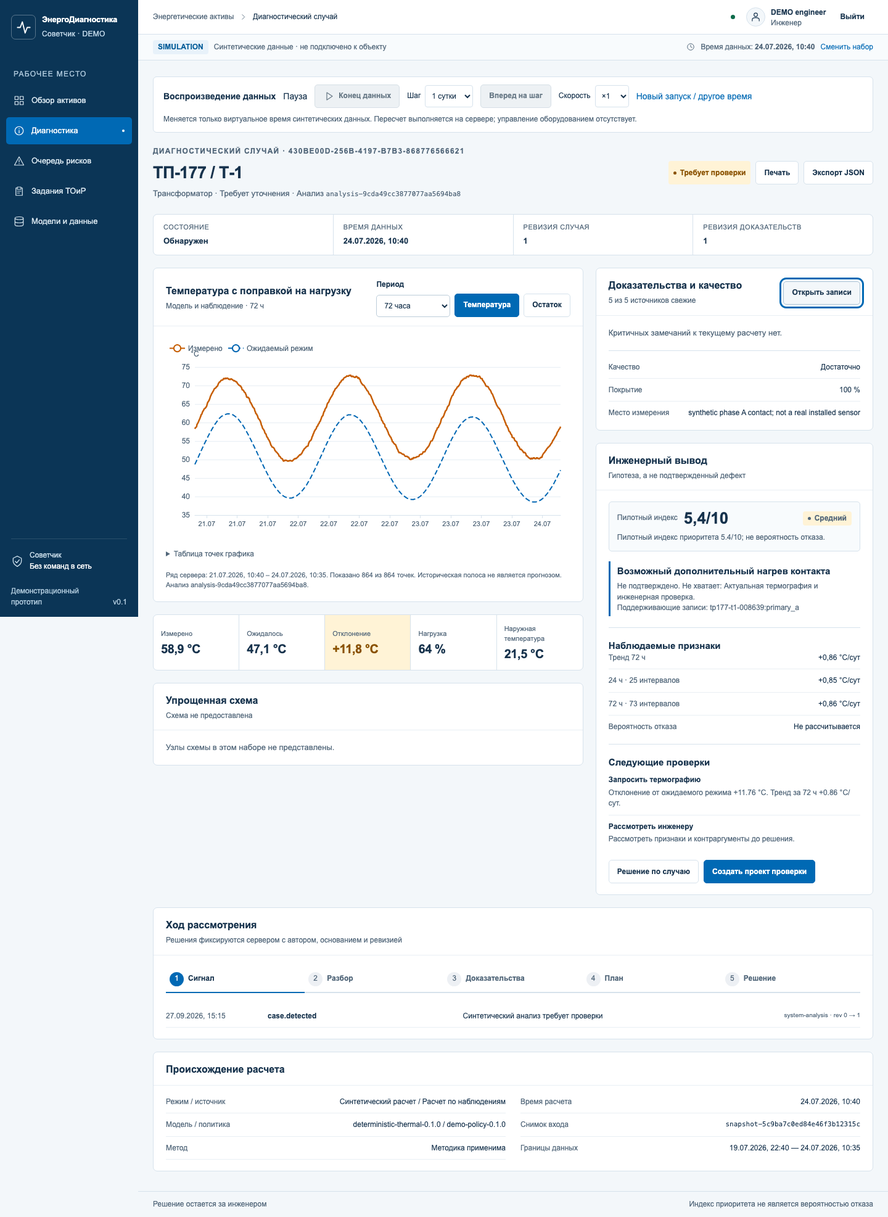
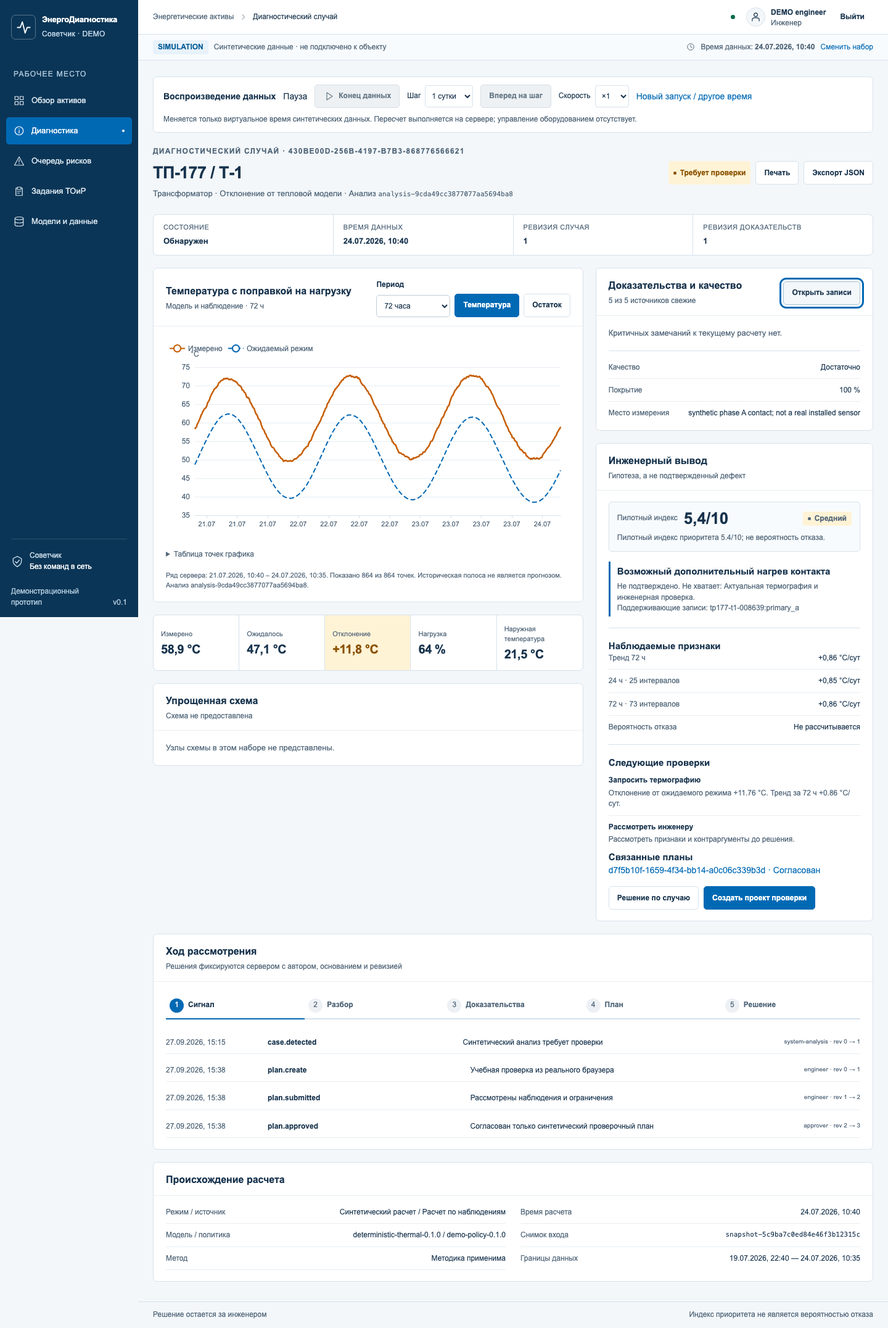
Polish presenter flow, offline navigation and local run instructions

diff --git a/apps/web/src/features/support.tsx b/apps/web/src/features/support.tsx
@@ -1,12 +1,12 @@
 import { api } from '../api/client';
 import { Badge, Banner, Card, DataTable, Empty, ErrorState, Loading, PageHeading } from '../design-system/components';
-import { assetTypeLabel, date, expectData, fetchRiskQueue, href, percent, useResource } from './shared';
+import { assetTypeLabel, locationLabel, date, expectData, fetchRiskQueue, href, percent, useResource } from './shared';
 
 export function AssetsPage({ run }: { run: string }) {
   const assets = useResource(`assets-${run}`, async () => expectData(await api.GET('/api/v1/assets', { params: { query: { scenarioRunId: run, limit: 100, offset: 0 } } })));
   return <div className="feature-stack"><PageHeading eyebrow="Реестр" title="Обзор активов" subtitle="Оборудование и места измерения в выбранном запуске." />
     {assets.loading && !assets.data && <Loading />}{assets.error && !assets.data && <ErrorState message={assets.error.message} retry={assets.refresh} />}{assets.stale && <Banner tone="high" title="Сохраненный реестр">Проверьте обновления после восстановления связи.</Banner>}
-    {assets.data && <Card title={`${assets.data.data.total} активов`} subtitle={`Время данных: ${date(assets.data.dataTime)}`}><DataTable label="Реестр активов"><thead><tr><th>Актив</th><th>Тип</th><th>Площадка</th><th>Место измерения</th></tr></thead><tbody>{assets.data.data.items.map(asset => <tr key={asset.assetId}><td><a href={href(`/assets/${encodeURIComponent(asset.assetId)}`, run)}><strong>{asset.name}</strong></a></td><td>{assetTypeLabel[asset.assetType]}</td><td>{asset.siteId}</td><td>{asset.measurementLocation}</td></tr>)}</tbody></DataTable>{assets.data.data.items.length === 0 && <Empty title="Активов нет">Проверьте выбранный набор данных.</Empty>}</Card>}
+    {assets.data && <Card title={`${assets.data.data.total} активов`} subtitle={`Время данных: ${date(assets.data.dataTime)}`}><DataTable label="Реестр активов"><thead><tr><th>Актив</th><th>Тип</th><th>Площадка</th><th>Место измерения</th></tr></thead><tbody>{assets.data.data.items.map(asset => <tr key={asset.assetId}><td><a href={href(`/assets/${encodeURIComponent(asset.assetId)}`, run)}><strong>{asset.name}</strong></a></td><td>{assetTypeLabel[asset.assetType]}</td><td>{asset.siteId}</td><td>{locationLabel(asset.measurementLocation)}</td></tr>)}</tbody></DataTable>{assets.data.data.items.length === 0 && <Empty title="Активов нет">Проверьте выбранный набор данных.</Empty>}</Card>}
   </div>;
 }
 
@@ -21,7 +21,7 @@ export function AssetPage({ id, run }: { id: string; run: string }) {
   const entry = risks.data?.data.items.find(value => value.asset.assetId === id);
   return <div className="feature-stack"><PageHeading eyebrow="Актив" title={item.name} subtitle={`${assetTypeLabel[item.assetType]} · ${item.siteId}`} actions={entry?.caseId ? <a className="button button-primary" href={href(`/diagnostics/cases/${encodeURIComponent(entry.caseId)}`, run)}>Открыть случай</a> : undefined} />
     {(asset.stale || sources.stale || risks.stale) && <Banner tone="high" title="Показаны сохраненные данные">Состояние источников и анализа могло измениться.</Banner>}
-    <div className="feature-support-grid"><Card title="Паспортная запись"><dl className="feature-definition"><div><dt>Идентификатор</dt><dd className="feature-mono">{item.assetId}</dd></div><div><dt>Место измерения</dt><dd>{item.measurementLocation}</dd></div><div><dt>Площадка</dt><dd>{item.siteId}</dd></div><div><dt>Условный вес последствий</dt><dd>{percent(item.demoConsequenceWeight)}</dd></div></dl></Card><Card title="Текущий анализ" subtitle={entry ? `Анализ ${entry.analysis.analysisRunId}` : 'Данные анализа не получены'}>{entry ? <><Badge tone={entry.analysis.risk.priority}>{entry.analysis.risk.priority === 'unknown' ? 'Оценка неизвестна' : `Индекс ${entry.analysis.risk.score}/10`}</Badge><p className="feature-muted">Время данных: {date(entry.analysis.asOf)}. {entry.analysis.risk.label}</p>{entry.caseId && <a href={href(`/diagnostics/cases/${encodeURIComponent(entry.caseId)}`, run)}>Перейти к случаю →</a>}</> : <p className="feature-muted">Откройте очередь рисков для текущих наблюдений. Анализ по этому активу пока не доступен.</p>}</Card></div>
+    <div className="feature-support-grid"><Card title="Паспортная запись"><dl className="feature-definition"><div><dt>Идентификатор</dt><dd className="feature-mono">{item.assetId}</dd></div><div><dt>Место измерения</dt><dd>{locationLabel(item.measurementLocation)}</dd></div><div><dt>Площадка</dt><dd>{item.siteId}</dd></div><div><dt>Условный вес последствий</dt><dd>{percent(item.demoConsequenceWeight)}</dd></div></dl></Card><Card title="Текущий анализ" subtitle={entry ? `Анализ ${entry.analysis.analysisRunId}` : 'Данные анализа не получены'}>{entry ? <><Badge tone={entry.analysis.risk.priority}>{entry.analysis.risk.priority === 'unknown' ? 'Оценка неизвестна' : `Индекс ${entry.analysis.risk.score}/10`}</Badge><p className="feature-muted">Время данных: {date(entry.analysis.asOf)}. {entry.analysis.risk.label}</p>{entry.caseId && <a href={href(`/diagnostics/cases/${encodeURIComponent(entry.caseId)}`, run)}>Перейти к случаю →</a>}</> : <p className="feature-muted">Откройте очередь рисков для текущих наблюдений. Анализ по этому активу пока не доступен.</p>}</Card></div>
     <Card title="Источники" subtitle="Канал, физическое место, единица и допустимая давность">{sources.loading && !sources.data && <Loading />}{sources.error && !sources.data && <ErrorState message={sources.error.message} retry={sources.refresh} />}{sources.data && <DataTable label="Источники актива"><thead><tr><th>Канал</th><th>Место</th><th>Показатель / единица</th><th>Частота / давность</th></tr></thead><tbody>{sources.data.data.items.filter(source => source.assetId === id).map(source => <tr key={source.sourceId}><td><strong>{source.channel}</strong><span className="secondary-line feature-mono">{source.sourceId}</span></td><td>{source.location}</td><td>{source.metric} / {source.unit}</td><td>{source.frequencySeconds === null ? 'Событийный' : `${source.frequencySeconds} с`} / {source.maxAgeSeconds} с</td></tr>)}</tbody></DataTable>}{sources.data && !sources.data.data.items.some(source => source.assetId === id) && <Empty title="Источники не указаны">Проверить качество данных пока нельзя.</Empty>}</Card>
   </div>;
 }

diff --git a/apps/web/src/features/DiagnosticsApp.tsx b/apps/web/src/features/DiagnosticsApp.tsx
@@ -93,14 +93,39 @@ function ScenarioPicker({ identity }: { identity: S['Identity'] }) {
 }
 
 export function DiagnosticsApp() {
-  const url = new URL(window.location.href);
+  const [location, setLocation] = useState(window.location.href);
+  const [online, setOnline] = useState(navigator.onLine);
+  const url = new URL(location);
   const run = url.searchParams.get('run') || (url.searchParams.has('choose') ? '' : localStorage.getItem('diagnostics-run') || '');
   const identity = useResource('auth-me', async () => expectData(await api.GET('/api/v1/auth/me')), false);
   const session = useResource(`session-${run}`, async () => {
     if (!run) throw new ApiFailure(404, 'Запуск не выбран.');
     return expectData(await api.GET('/api/v1/demo/sessions/{id}', { params: { path: { id: run } } }));
   });
-  const current = route(window.location.pathname);
+  useEffect(() => {
+    const updateLocation = () => setLocation(window.location.href);
+    const navigate = (event: MouseEvent) => {
+      if (event.defaultPrevented || event.button !== 0 || event.ctrlKey || event.metaKey || event.shiftKey || event.altKey) return;
+      const link = event.target instanceof Element ? event.target.closest('a') : null;
+      if (!link || link.target || link.hasAttribute('download')) return;
+      const next = new URL(link.href);
+      if (next.origin !== window.location.origin || next.pathname === '/gallery' || (next.hash && next.pathname === window.location.pathname)) return;
+      event.preventDefault();
+      window.history.pushState(null, '', next);
+      updateLocation(); window.scrollTo(0, 0);
+    };
+    document.addEventListener('click', navigate);
+    window.addEventListener('popstate', updateLocation);
+    return () => { document.removeEventListener('click', navigate); window.removeEventListener('popstate', updateLocation); };
+  }, []);
+  useEffect(() => {
+    const connected = () => { setOnline(true); identity.refresh(); session.refresh(); };
+    const disconnected = () => setOnline(false);
+    window.addEventListener('online', connected);
+    window.addEventListener('offline', disconnected);
+    return () => { window.removeEventListener('online', connected); window.removeEventListener('offline', disconnected); };
+  }, [identity.refresh, session.refresh]);
+  const current = route(url.pathname);
   const nav: NavItem[] = featureRegistrations.map(item => ({ id: item.id, href: href(item.route, run), label: item.label, icon: icons[item.id] }));
   const processing = session.data?.data.processingStatus || 'ready';
   const canShowRun = !identity.loading && identity.error?.status !== 401;
@@ -109,24 +134,25 @@ export function DiagnosticsApp() {
     const timer = window.setInterval(session.refresh, 3000);
     return () => window.clearInterval(timer);
   }, [run, processing, session.data?.data.paused, session.refresh]);
-  const connection = identity.error?.status === 0 || session.error?.status === 0 ? 'offline' : identity.loading || session.loading ? 'loading' : 'online';
+  const connection = !online || identity.error?.status === 0 || session.error?.status === 0 ? 'offline' : identity.loading || session.loading ? 'loading' : 'online';
   async function logout() {
     if (!identity.data) return;
     try { expectData(await api.POST('/api/v1/auth/logout', { params: { header: mutationHeaders(identity.data) } })); window.location.reload(); }
     catch { identity.refresh(); }
   }
   return <AppShell nav={nav} active={current.active} mode={session.data?.mode || null} dataTime={session.data?.dataTime || null} connection={connection}
-    userLabel={identity.data?.displayName || 'Нет входа'} roleLabel={identity.data ? roleLabel[identity.data.role] : 'Просмотр'} onLogout={identity.data ? logout : undefined}
+    userLabel={identity.data?.displayName || 'Нет входа'} roleLabel={identity.data ? roleLabel[identity.data.role] : 'Просмотр'} onLogout={identity.data && online ? logout : undefined}
     breadcrumb={current.title} headerActions={run ? <a href="/?choose=1">Сменить набор</a> : undefined}>
+    {!online && <Banner tone="high" title="Нет сети">Показан последний загруженный срез. Изменения недоступны до восстановления связи.</Banner>}
     {identity.loading && !identity.data && <Loading label="Проверяем вход..." />}
     {identity.error?.status === 401 && <Login onSuccess={() => window.location.reload()} />}
     {identity.error && identity.error.status !== 401 && <Banner tone="high" title="Сервер недоступен">Сохраненные данные показаны как устаревшие. Изменения недоступны.</Banner>}
     {!identity.loading && identity.error?.status !== 401 && !run && identity.data && <ScenarioPicker identity={identity.data} />}
     {canShowRun && run && session.loading && !session.data && <Loading label="Загружаем запуск..." />}
     {canShowRun && run && session.error && !session.data && <ErrorState message={session.error.message} requestId={session.error.requestId} retry={session.refresh} />}
-    {canShowRun && run && session.data && <ReplayControls session={session.data.data} identity={session.stale ? null : identity.data} refresh={session.refresh} />}
+    {canShowRun && run && session.data && <ReplayControls session={session.data.data} identity={!online || session.stale ? null : identity.data} refresh={session.refresh} />}
     {canShowRun && run && session.data && processing !== 'ready' && <Banner tone={processing === 'failed' ? 'high' : 'blue'} title={processing === 'failed' ? 'Подготовка набора не удалась' : 'Набор подготавливается'}>{processing === 'failed' ? session.data.data.processingError || 'Проверьте журнал сервера.' : 'Данные еще не готовы для просмотра. Статус обновляется автоматически.'}</Banner>}
     {canShowRun && run && session.data && processing !== 'ready' && <Button onClick={session.refresh}>Проверить состояние</Button>}
-    {canShowRun && run && session.data && processing === 'ready' && <>{session.stale && <Banner tone="high" title="Показаны сохраненные данные">Связь с сервером потеряна; действия заблокированы.</Banner>}<div key={session.data.data.processedAt || session.data.data.virtualTime}>{current.content(run, identity.data && !identity.stale && !session.stale ? identity.data : null)}</div></>}
+    {canShowRun && run && session.data && processing === 'ready' && <>{session.stale && <Banner tone="high" title="Показаны сохраненные данные">Связь с сервером потеряна; действия заблокированы.</Banner>}<div key={session.data.data.processedAt || session.data.data.virtualTime}>{current.content(run, online && identity.data && !identity.stale && !session.stale ? identity.data : null)}</div></>}
   </AppShell>;
 }

diff --git a/apps/web/src/features/case.tsx b/apps/web/src/features/case.tsx
@@ -2,7 +2,7 @@ import { lazy, Suspense, useEffect, useState } from 'react';
 import { api } from '../api/client';
 import type { components } from '../api/generated';
 import { Badge, Banner, Button, Card, Dialog, Empty, ErrorState, Loading, PageHeading } from '../design-system/components';
-import { ApiFailure, actionLabel, assetTypeLabel, dataOriginLabel, date, evidenceOriginLabel, expectData, exportJson, fetchCaseSnapshot, href, methodStatusLabel, mutationHeaders, number, percent, planStateLabel, priorityLabel, qualityLabel, riskTone, signed, stateLabel, symptomLabel, temperature, useResource, type Identity, type Snapshot } from './shared';
+import { ApiFailure, actionLabel, actorLabel, auditLabel, locationLabel, assetTypeLabel, dataOriginLabel, date, evidenceOriginLabel, expectData, exportJson, fetchCaseSnapshot, href, methodStatusLabel, mutationHeaders, number, percent, planStateLabel, priorityLabel, qualityLabel, riskTone, signed, stateLabel, symptomLabel, temperature, useResource, type Identity, type Snapshot } from './shared';
 import { TopologyCard } from './topology';
 
 type S = components['schemas'];
@@ -21,7 +21,7 @@ function Metric({ label, value, detail, emphasis = false }: { label: string; val
 function EvidencePanel({ snapshot, onAdd }: { snapshot: Snapshot; onAdd: () => void }) {
   return <Card title="Доказательства и качество" subtitle={`${snapshot.analysis.quality.freshSources} из ${snapshot.analysis.quality.totalSources} источников свежие`} actions={<Button variant="ghost" onClick={onAdd}>Открыть записи</Button>}>
     {snapshot.analysis.quality.issues.length ? <div className="feature-issues">{snapshot.analysis.quality.issues.map(issue => <div key={issue} className="feature-issue">{issue}</div>)}</div> : <p className="feature-muted">Критичных замечаний к текущему расчету нет.</p>}
-    <div className="feature-separator" /><dl className="feature-definition"><div><dt>Качество</dt><dd>{qualityLabel[snapshot.analysis.quality.overall]}</dd></div><div><dt>Покрытие</dt><dd>{snapshot.analysis.quality.coverage === null ? 'Не указано' : percent(snapshot.analysis.quality.coverage)}</dd></div><div><dt>Место измерения</dt><dd>{snapshot.asset.measurementLocation}</dd></div></dl>
+    <div className="feature-separator" /><dl className="feature-definition"><div><dt>Качество</dt><dd>{qualityLabel[snapshot.analysis.quality.overall]}</dd></div><div><dt>Покрытие</dt><dd>{snapshot.analysis.quality.coverage === null ? 'Не указано' : percent(snapshot.analysis.quality.coverage)}</dd></div><div><dt>Место измерения</dt><dd>{locationLabel(snapshot.asset.measurementLocation)}</dd></div></dl>
   </Card>;
 }
 
@@ -154,7 +154,7 @@ export function CasePage({ id, run, identity }: { id: string; run: string; ident
         {relatedPlans.data?.data.items.length ? <div className="feature-related-plans"><h3>Связанные планы</h3>{relatedPlans.data.data.items.map(plan => <a key={plan.planId} href={href(`/work-plans/${encodeURIComponent(plan.planId)}`, run)}>{plan.planId} · {planStateLabel[plan.state]}</a>)}</div> : null}
         <div className="feature-actions"><CaseDecision key={current.case.revision} snapshot={current} identity={identity && !snapshot.stale ? identity : null} run={run} refresh={() => { snapshot.refresh(); history.refresh(); }} /><CreatePlan snapshot={current} identity={identity && !snapshot.stale ? identity : null} run={run} /></div>
       </Card></div></div>
-    <Card title="Ход рассмотрения" subtitle="Решения фиксируются сервером с автором, основанием и ревизией"><div className="feature-timeline">{['Сигнал', 'Разбор', 'Доказательства', 'План', 'Решение'].map((label, index) => <div key={label} className={`feature-timeline-step ${stage >= index + 1 ? 'active' : ''}`}><span>{index + 1}</span><strong>{label}</strong></div>)}</div>{history.loading && !history.data && <Loading label="Загружаем историю..." />}{history.error && !history.data && <ErrorState message={history.error.message} retry={history.refresh} />}{history.data?.data.items.length ? <ul className="feature-history">{history.data.data.items.map(item => <li key={item.eventId}><time>{date(item.timestamp)}</time><strong>{item.action}</strong><span>{item.reason}</span><small>{item.actorId} · rev {item.previousRevision} → {item.newRevision}</small></li>)}</ul> : <p className="feature-muted">Записи истории пока отсутствуют.</p>}</Card>
+    <Card title="Ход рассмотрения" subtitle="Фактическое время действий и автор сохраняются сервером. Время измерений показано отдельно"><div className="feature-timeline">{['Сигнал', 'Разбор', 'Доказательства', 'План', 'Решение'].map((label, index) => <div key={label} className={`feature-timeline-step ${stage >= index + 1 ? 'active' : ''}`}><span>{index + 1}</span><strong>{label}</strong></div>)}</div>{history.loading && !history.data && <Loading label="Загружаем историю..." />}{history.error && !history.data && <ErrorState message={history.error.message} retry={history.refresh} />}{history.data?.data.items.length ? <ul className="feature-history">{history.data.data.items.map(item => <li key={item.eventId}><time>{date(item.timestamp)}</time><strong>{auditLabel(item.action)}</strong><span>{item.reason}</span><small>{actorLabel(item.actorId)} · ревизия {item.previousRevision} → {item.newRevision}</small></li>)}</ul> : <p className="feature-muted">Записи истории пока отсутствуют.</p>}</Card>
     <Card title="Происхождение расчета"><dl className="feature-definition feature-provenance"><div><dt>Режим / источник</dt><dd>{current.analysis.mode === 'reference' ? 'Иллюстрация' : 'Синтетический расчет'} / {dataOriginLabel[current.analysis.calculationOrigin]}</dd></div><div><dt>Время расчета</dt><dd>{date(current.analysis.asOf)}</dd></div><div><dt>Модель / политика</dt><dd>{current.analysis.modelVersion || 'Иллюстрация'} / {current.analysis.policyVersion || 'Иллюстрация'}</dd></div><div><dt>Снимок входа</dt><dd className="feature-mono">{current.analysis.inputSnapshotId}</dd></div><div><dt>Метод</dt><dd>{methodStatusLabel[current.details.methodStatus]}{current.details.methodReason ? ` · ${current.details.methodReason}` : ''}</dd></div><div><dt>Границы данных</dt><dd>{date(current.details.inputWindow.start)} — {date(current.details.inputWindow.end)}</dd></div></dl></Card>
     <EvidenceDrawer open={drawer} onClose={() => setDrawer(false)} snapshot={current} identity={identity && !snapshot.stale ? identity : null} run={run} refresh={snapshot.refresh} />
   </div>;

diff --git a/apps/web/src/shell/AppShell.tsx b/apps/web/src/shell/AppShell.tsx
@@ -30,10 +30,10 @@ export function AppShell({ children, nav, active, mode, dataTime, connection, us
     return () => window.removeEventListener('keydown', escape);
   }, [menu]);
   return <div className={`app-layout ${menu ? 'menu-open' : ''}`}>
-    <aside id="main-navigation" className="sidebar" inert={compact && !menu} aria-hidden={compact && !menu}><BrandMark /><div className="workspace-label">РАБОЧЕЕ МЕСТО</div><nav aria-label="Главная навигация">{nav.map(item => <a key={item.id} href={item.href} className={`nav-link ${active === item.id ? 'active' : ''}`} aria-current={active === item.id ? 'page' : undefined} title={item.label}><Icon name={item.icon} /><span>{item.label}</span>{active === item.id && <span className="nav-current" />}</a>)}</nav><div className="sidebar-bottom"><div className="advisory-mark"><Icon name="shield" size={20} /><span>Советчик<br /><strong>Без команд в сеть</strong></span></div><div className="sidebar-version">Демонстрационный прототип<span>v0.1</span></div></div></aside>
+    <aside id="main-navigation" className="sidebar" inert={compact && !menu} aria-hidden={compact && !menu}><BrandMark /><div className="workspace-label">РАБОЧЕЕ МЕСТО</div><nav aria-label="Главная навигация" onClick={() => setMenu(false)}>{nav.map(item => <a key={item.id} href={item.href} className={`nav-link ${active === item.id ? 'active' : ''}`} aria-current={active === item.id ? 'page' : undefined} title={item.label}><Icon name={item.icon} /><span>{item.label}</span>{active === item.id && <span className="nav-current" />}</a>)}</nav><div className="sidebar-bottom"><div className="advisory-mark"><Icon name="shield" size={20} /><span>Советчик<br /><strong>Без команд в сеть</strong></span></div><div className="sidebar-version">Демонстрационный прототип<span>v0.1</span></div></div></aside>
     {menu && <button className="menu-overlay" aria-label="Закрыть меню" onClick={() => setMenu(false)} />}
     <div className="app-main"><header className="topbar"><Button ref={menuButton} aria-expanded={menu} aria-controls="main-navigation" className="mobile-menu" icon="menu" variant="ghost" aria-label="Открыть меню" onClick={() => setMenu(!menu)} /><div className="breadcrumb">Энергетические активы<Icon name="chevron" size={13} /><strong>{breadcrumb}</strong></div><div className="topbar-right"><span className={`connection ${connection}`} title={connection === 'online' ? 'Связь с сервером' : 'Нет актуального ответа сервера'} /><div className="profile"><span className="avatar"><Icon name="user" size={17} /></span><div><strong>{userLabel}</strong><small>{roleLabel}</small></div>{onLogout && <Button variant="ghost" onClick={onLogout} title="Выйти">Выйти</Button>}</div></div></header>
-    <div className="data-context"><div className="data-context-left"><Badge tone={mode === 'simulation' ? 'blue' : 'unknown'} dot={false}>{mode === 'simulation' ? 'SIMULATION' : mode === 'reference' ? 'REFERENCE' : 'DEMO'}</Badge><span>{mode === 'simulation' ? 'Синтетические данные · не подключено к объекту' : mode === 'reference' ? 'Иллюстрация презентации · фиксированные значения' : 'Выберите набор для демонстрации'}</span></div><div className="data-context-right"><Icon name="clock" size={14} /><span>Время данных: <strong>{formatTime(dataTime)}</strong></span>{headerActions}</div></div>
+    <div className="data-context"><div className="data-context-left"><Badge tone={mode === 'simulation' ? 'blue' : 'unknown'} dot={false}>{mode === 'simulation' ? 'SIMULATION' : mode === 'reference' ? 'REFERENCE' : 'DEMO'}</Badge><span>{mode === 'simulation' ? 'Синтетические данные · не подключено к объекту' : mode === 'reference' ? 'Иллюстрация презентации · фиксированные значения' : 'Выберите набор для демонстрации'}</span></div><div className="data-context-right"><Icon name="clock" size={14} /><span>Время данных ({brand.timezone === 'Europe/Moscow' ? 'МСК' : brand.timezone}): <strong>{formatTime(dataTime)}</strong></span>{headerActions}</div></div>
     <main className="workspace">{children}</main><footer className="app-footer"><span>Решение остается за инженером</span><span>Индекс приоритета не является вероятностью отказа</span></footer></div>
   </div>;
 }

diff --git a/apps/web/src/features/chart.tsx b/apps/web/src/features/chart.tsx
@@ -1,5 +1,6 @@
 import { useEffect, useRef } from 'react';
 import * as echarts from 'echarts';
+import { brand } from '../config';
 import { DataTable, Empty } from '../design-system/components';
 import { date, pointQualityLabel, temperature, type SeriesPoint } from './shared';
 
@@ -13,7 +14,7 @@ export function TemperatureChart({ points, residual = false }: { points: SeriesP
     const expected = tokens.getPropertyValue('--chart-expected').trim();
     const residualColor = tokens.getPropertyValue('--risk-medium-text').trim();
     const shortRange = new Date(points[points.length - 1].eventTime).getTime() - new Date(points[0].eventTime).getTime() <= 48 * 3600000;
-    const axisTime = new Intl.DateTimeFormat('ru-RU', shortRange ? { hour: '2-digit', minute: '2-digit', timeZone: 'UTC' } : { day: '2-digit', month: '2-digit', timeZone: 'UTC' });
+    const axisTime = new Intl.DateTimeFormat('ru-RU', shortRange ? { hour: '2-digit', minute: '2-digit', timeZone: brand.timezone } : { day: '2-digit', month: '2-digit', timeZone: brand.timezone });
     const series = residual ? [
       { name: 'Отклонение', type: 'line' as const, showSymbol: false, connectNulls: false,
         itemStyle: { color: residualColor }, lineStyle: { color: residualColor, width: 2 },
@@ -27,15 +28,15 @@ export function TemperatureChart({ points, residual = false }: { points: SeriesP
         data: points.map(point => [point.eventTime, point.expectedC]) },
     ];
     chart.setOption({
-      animation: false, color: residual ? [residualColor] : [observed, expected],
+      animation: false, useUTC: true, color: residual ? [residualColor] : [observed, expected],
       grid: { left: 47, right: 16, top: 48, bottom: 42 },
       legend: { top: 6, left: 0, textStyle: { color: '#52677A', fontSize: 12 } },
-      tooltip: { trigger: 'axis', valueFormatter: (value: unknown) => typeof value === 'number' ? `${value.toFixed(1)} °C` : 'Нет данных' },
-      xAxis: { type: 'time', axisLabel: { color: '#52677A', fontSize: 11, formatter: (value: number) => axisTime.format(new Date(value)) }, axisLine: { lineStyle: { color: '#D6E2EC' } } },
+      tooltip: { trigger: 'axis', renderMode: 'richText', valueFormatter: (value: unknown) => typeof value === 'number' ? `${value.toFixed(1)} °C` : 'Нет данных' },
+      xAxis: { type: 'time', splitNumber: ref.current.clientWidth < 450 ? 3 : 6, axisPointer: { label: { formatter: (params: { value: number }) => date(new Date(params.value).toISOString()) } }, axisLabel: { hideOverlap: true, color: '#52677A', fontSize: 12, formatter: (value: number) => axisTime.format(new Date(value)) }, axisLine: { lineStyle: { color: '#D6E2EC' } } },
       yAxis: { type: 'value', name: '°C', scale: true, nameTextStyle: { color: '#52677A' }, axisLabel: { color: '#52677A' }, splitLine: { lineStyle: { color: '#E7EEF4' } } },
       series,
     });
-    const resize = new ResizeObserver(() => chart.resize());
+    const resize = new ResizeObserver(() => { chart.resize(); chart.setOption({ xAxis: { splitNumber: (ref.current?.clientWidth || 600) < 450 ? 3 : 6 } }); });
     resize.observe(ref.current);
     return () => { resize.disconnect(); chart.dispose(); };
   }, [points, residual]);

diff --git a/apps/web/src/features/shared.ts b/apps/web/src/features/shared.ts
@@ -113,3 +113,18 @@ export function exportJson(name: string, value: unknown) {
 export const mutationHeaders = (identity: Identity) => ({
   'Idempotency-Key': crypto.randomUUID(), 'X-CSRF-Token': identity.csrfToken,
 });
+
+export function locationLabel(value: string) {
+  return value === 'synthetic phase A contact; not a real installed sensor'
+    ? 'Синтетическая точка на контакте фазы A; реальный датчик не установлен'
+    : value;
+}
+export function auditLabel(value: string) {
+  if (value === 'case.analysis_updated') return 'Опубликован новый расчет';
+  if (value === 'evidence.add') return 'Добавлена запись';
+  if (value.startsWith('case.')) return (stateLabel as Record<string, string>)[value.slice(5)] || value;
+  if (value.startsWith('plan.')) return (planStateLabel as Record<string, string>)[value.slice(5)] || value;
+  if (value.startsWith('step.result:')) return 'Записан результат шага';
+  return value;
+}
+export const actorLabel = (value: string) => value === 'system-analysis' ? 'Расчетный сервис' : (roleLabel as Record<string, string>)[value] || value;

diff --git a/tests/e2e/prototype.spec.ts b/tests/e2e/prototype.spec.ts
@@ -1,0 +1,10 @@
+import { test, expect } from '@playwright/test';
+test('local prototype is ready, advisory and requires server login', async ({ page, request }) => {
+  const health = await request.get('/api/v1/health');
+  expect(health.ok()).toBe(true);
+  expect(await health.json()).toMatchObject({ database: 'ready', businessRuntime: 'ready', controlCommandsAllowed: false, externalAiEnabled: false });
+  await page.goto('/');
+  await expect(page.getByRole('heading', { name: 'Вход в демонстрационный контур' })).toBeVisible();
+  await expect(page.getByLabel('Пользователь', { exact: true })).toBeVisible();
+  expect((await request.get('/api/v1/risks?scenarioRunId=reference-slide29')).status()).toBe(401);
+});

diff --git a/README.md b/README.md
@@ -1,73 +1,55 @@
-# ЭнергоДиагностика — пакет для разработки прототипа
+# ЭнергоДиагностика · локальный прототип
 
-**Версия 0.1.0 · 25 сентября 2026**
+Советчик для демонстрации цепочки **наблюдение → расчет → гипотеза → проверочный план → решение инженера**. React/FastAPI/PostgreSQL и отдельный worker. Внешний AI не нужен. Управление оборудованием, изменение уставок и автоматическое подтверждение дефекта исключены.
 
-Основа — слайд29 предоставленной презентации `TD KPTSMART ENERGY_2(2).pdf`; прочие слайды рассмотрены как контекст будущих модулей. Главная цель: воспроизводимая демонстрация «наблюдение → расчёт → гипотеза → проверка → решение инженера», а не чат и не система управления подстанцией.
+## Запуск
 
-## Текущее состояние разработки
-
-Этап 01: добавлен локальный каркас React/FastAPI/PostgreSQL, канонические Pydantic DTO и generated OpenAPI/TS. Инструкция запуска: [docs/runbook/LOCAL.md](docs/runbook/LOCAL.md). Бизнес-API пока возвращает 501, worker не считает диагностику. Исходное описание blueprint ниже сохранено как контекст пакета; результаты текущей проверки указаны в `handoffs/01-foundation.md`.
-
-## Что здесь уже есть
-
-Подробный `design.md`, функциональная/численная/архитектурная спецификации, план приёмки, исследование tools и форумов, 11 отдельных Codex prompts, три instruction-only skills, конфигурация сменного бренда, стартовые JSON Schema и референсные fixtures. Также есть реально исполняемый генератор и созданные им синтетические данные с проверками.
-
-**Чего ещё нет:** готового frontend/backend, работающего workflow согласования, реализованного диагностического сервиса, промышленного коннектора, выполненных вызовов Jev. Эти части описаны заданиями для реализации. Полный OpenAPI нужно дополнить и зафиксировать на этапе01; текущие JSON Schema определяют Measurement/AnalysisResult, а не весь будущий сервер.
-
-## Начать здесь
-
-Сначала прочитать `design.md`, затем `docs/implementation-plan.md`. Папку открыть в Codex и передать `prompts/00-preflight.md`. Он проверит фактическое окружение и сформирует план без самовольной реализации/установки. После согласования запустить01. Параллельные агенты02–05 работают только после заморозки контрактов; UI features06 после готовности общей оболочки;07 интегрирует;08 независимо проверяет.09 Jev — необязательный эксперимент;10 — шаблон будущего расширения.
-
-Начальное сообщение для Codex находится в `START_HERE.md`.
-
-## Основные файлы
-
-| Файл | Зачем |
-|---|---|
-| `design.md` | Компоновка, компоненты, взаимодействия, состояния, графики, бренд, доступность |
-| `docs/source-review.md` | Что действительно видно в презентации, где предположения и расхождения |
-| `docs/architecture.md` | Frontend/backend/worker, сущности, права, жизненные циклы, границы OT |
-| `docs/diagnostics.md` | Baseline, остаток, градиент, приоритет, доказательства, роль AI |
-| `docs/data-spec.md` | Набор данных, семь сценариев, честные режимы reference/simulation |
-| `docs/implementation-plan.md` | Этапы, зависимости, владельцы путей, контрольные точки |
-| `docs/acceptance.md` | Будущая численная, функциональная, визуальная и security-приёмка |
-| `docs/tools-and-research.md` | Skills/plugins/GitHub, официальные источники и форумные обсуждения |
-| `contracts/README.md` | Что уже зафиксировано и что должен завершить интегратор |
-| `prompts/00…10` | Отдельные ограниченные задачи с входами, владельцами и критериями |
-| `.agents/skills/` | Три project-specific skills, без исполняемых hooks |
-| `config/` | Брендинг и демонстрационная политика; не уставки реального оборудования |
-| `data/observations/` | Синтетические данные для будущего adapter |
-| `data/truth/` | Истинные параметры только для независимой проверки — не runtime |
-| `scripts/generate_demo.py` | Стандартная библиотека Python, воспроизводимый seed |
-| `tests/test_blueprint.py` | Проверки именно этого пакета, не приложения |
-| `verification/data-checks.json` | Фактический результат выполненных проверок |
-| `references/` | Предоставленный слайд29 и изображения контекстных25/26/30 |
-
-## Числовые ограничения, которые нельзя потерять
-
-Индекс7,2/10 в слайде — пилотная шкала с неизвестной формулой, не72% вероятности отказа. Окно7–14дней прямо не является прогнозом даты отказа. Осмотр≤48ч — отдельный срок следующего действия. Пропуск/устаревание измерений не превращается в низкий риск.
-
-Сохранены два режима: REFERENCE — значения презентации с явным origin; SIMULATION — реальный будущий расчёт по observations. Числа генератора не подгоняются под картинку. Референсная историческая линия стилизованно реконструирована, не извлечена как настоящая телеметрия. Полная работоспособность MVP не должна зависеть от внешней AI-модели.
-
-## Синтетический набор и проверки
-
-30 суток, шаг5мин, 7трансформаторов, **60 487 широких строк**; дополнительно31событие выключателя и31суточное измерение кабеля, всего9активов. Есть нормальный режим, нагрев, изменение нагрузки, дрейф датчика, пропуски/залипание/выброс, восстановление и ускоряющееся ухудшение.
-
-В среде подготовки прошли **19 из19 проверок**, включая воспроизводимость seed, хеши, временные интервалы, разделение truth/observations, заложенные сценарии, JSON Schema и контраст выбранных токенов. Версии среды и точный перечень в `verification/data-checks.json`. Это не оценка эксплуатационной точности и не тесты ещё не созданного приложения.
+Нужен запущенный Docker Desktop. Из основного checkout:
 
 ```bash
-# Выполнять из корня пакета. Для генератора достаточно Python3.10+.
-python scripts/generate_demo.py --out ./generated-run --seed 20260925 --days 30
-
-# Установка нужна только для JSON Schema-проверок, предпочтительно в venv.
-python -m pip install -r requirements-validation.txt
-python tests/test_blueprint.py --report verification/local-data-checks.json
+python3 scripts/init_local_env.py
+docker compose --env-file infra/.env -p energy-diagnostics -f infra/compose.yaml up --build -d --wait
 ```
 
-Генератор не перезаписывает непустую папку. Сервисам будущего приложения монтировать только `data/observations`, не `data/truth`. Никакая реальная термограмма не выдумана: evidence fixture прямо указывает отсутствие изображения.
+Открыть **http://127.0.0.1:8080**. Пользователь `engineer`, пароль в локальном `infra/.env`, строка `DEMO_ENGINEER_PASSWORD`. Скрипт создает случайные пароли, сохраняет существующие и не выводит секреты. Для согласования использовать `approver`, для результатов `technician`, для просмотра `viewer`, с соответствующими паролями из того же файла. Роль проверяется сервером. После выхода текущая ссылка на случай/план сохраняется.
 
-## Работа с инструментами и реальным объектом
+[Локальный runbook](docs/runbook/LOCAL.md) описывает остановку, восстановление и backup. [Сценарий показа на 7–10 минут](docs/runbook/DEMO.md). Изолированная галерея компонентов: `/gallery`.
 
-Сторонние репозитории/плагины здесь не устанавливались. Использовать уже доступный Product Design/frontend-design и один browser QA путь; опционально Impeccable для review. Не добавлять пять конфликтующих дизайн-наборов. Ссылки/способы установки в исследовании проверены на дату подготовки, перед фактической установкой проверить версии, лицензии, hooks и разрешения.
+## Что можно показать
 
-Для реального пилота нужны паспорта/места датчиков/теги/регламенты/история подтверждённых исходов/права/интеграция. Прототип — советчик. В нём не должно быть команд выключателю, изменения РЗА или автоматического назначения отключения.
+- Очередь рисков, качество и свежесть данных; переход в диагностический случай или карточку актива.
+- Измеренную и ожидаемую температуру, остаток и тренды 24/72 часа, неподтвержденные гипотезы и происхождение расчета.
+- Доказательства, проект плана, серверное согласование, запись результата, проверку и закрытие с журналом действий.
+- Виртуальное время: пауза, шаг, скорости ×1/×10/×60. Для другого начала выбрать новый запуск; старые данные не стираются.
+- Печать/JSON с режимом, временем и версиями. Источники и границы применимости метода доступны отдельным экраном.
+
+**REFERENCE** воспроизводит слайд 29. Числа 7,2/10, 80/68/+12 °C иллюстративны. 7,2/10 не означает 72% вероятности отказа. Схема имеет источник «модель»; состояние Т-2 неизвестно.
+
+**SIMULATION** реально рассчитывается из `data/observations`: 7 трансформаторов, выключатель и кабельный участок, 30 суток. `data/truth` не монтируется в runtime. Диагноз не выбирается по имени сценария или assetId. Тепловая методика применяется только к трансформаторам; выключатель и кабель честно отмечены как неподдерживаемые данным методом. Недостаток/спорность данных дает неизвестную оценку. Вероятность отказа не рассчитывается, forecast выключен.
+
+## Проверки
+
+```bash
+uv sync --frozen
+npm ci
+npm run lint
+npm run contracts:check
+npm run test:python
+npm test
+npm run build
+npm run test:e2e
+# На работающем локальном Compose, с паролями в infra/.env:
+uv run --frozen python scripts/smoke_local.py
+uv run --frozen python scripts/check_live_workflow.py
+./node_modules/.bin/playwright test -c tests/live/playwright.config.ts
+```
+
+Python 3.13.5, Node 25.1.0/npm 11.13.0, uv 0.12.15; зависимости зафиксированы lockfiles. Браузер устанавливается при необходимости командой `PLAYWRIGHT_SKIP_BROWSER_GC=1 ./node_modules/.bin/playwright install chromium`. Это проектные зависимости, не плагины/skills/hooks.
+
+Фактические результаты: `verification/CORE_REVIEW.md`, `verification/WORKFLOW_REVIEW.md`, `verification/live-*.json`, скриншоты `verification/live-*.png`. Финальное решение приемки: `verification/PROTOTYPE_ACCEPTANCE.md`, когда независимая проверка завершена. До появления принятого отчета финальная приемка остается открытой. Удаленный CI/публикация не выполнялись.
+
+## Источники и ограничения
+
+Исходный blueprint, prompts и fixtures сохранены. Визуальная спецификация: [DESIGN.md](DESIGN.md); численная семантика: [docs/diagnostics.md](docs/diagnostics.md); контракты: [contracts/README.md](contracts/README.md); план приемки: [docs/acceptance.md](docs/acceptance.md). Этапы и изменения зафиксированы в `handoffs/`.
+
+Это демонстрационный продукт на синтетике, не промышленная диагностика и не подтвержденная точность на реальном парке активов. Нет промышленного коннектора, реальных термограмм, интеграции с ТОиР и эксплуатационной сертификации. Подключение объекта требует паспортов, согласованной привязки датчиков, регламентов, прав и отдельной проверки модели.
